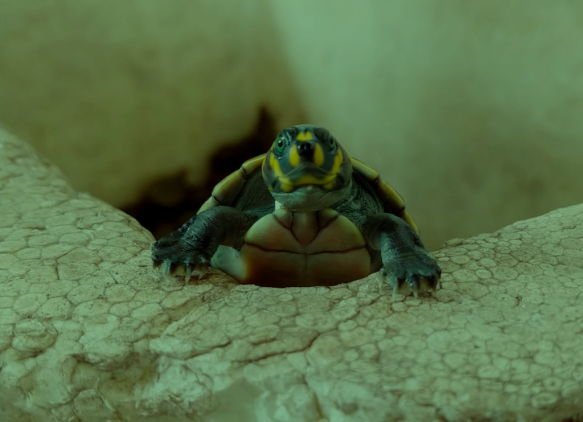
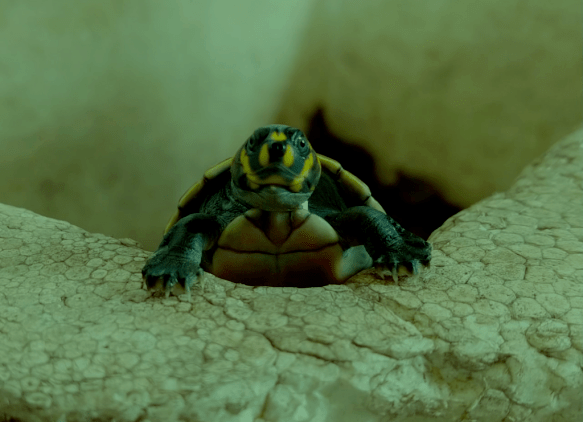
Atualização HTML e CSS Login

diff --git a/src/app/login/login.component.css b/src/app/login/login.component.css
@@ -6,22 +6,29 @@
     font-family: "Fira Sans", sans-serif;
     border: 15px;
     border-color: black;
+    position: relative;
 }
 
 #bgtracaja{
     background-image: url(../../assets/img/tartarugalogin.png);
     background-repeat: no-repeat;
-    width:400px;
-    height:400px;
+    width:450px;
+    height:480px;
     margin-left: -20%;
     margin-right: -20%;
-    margin-bottom: -60%;
+    margin-bottom: -64.5%;
+    background-position: 60% 65%;
 }
 
 p{
     color:white;
     font-size:18pt;
+    text-align: right;
     font-family: "Fira Sans", sans-serif;
+    position: relative;
+    top: 10%;
+    display:flex;
+    margin-right: 5%;
 }
 
 .logo{
